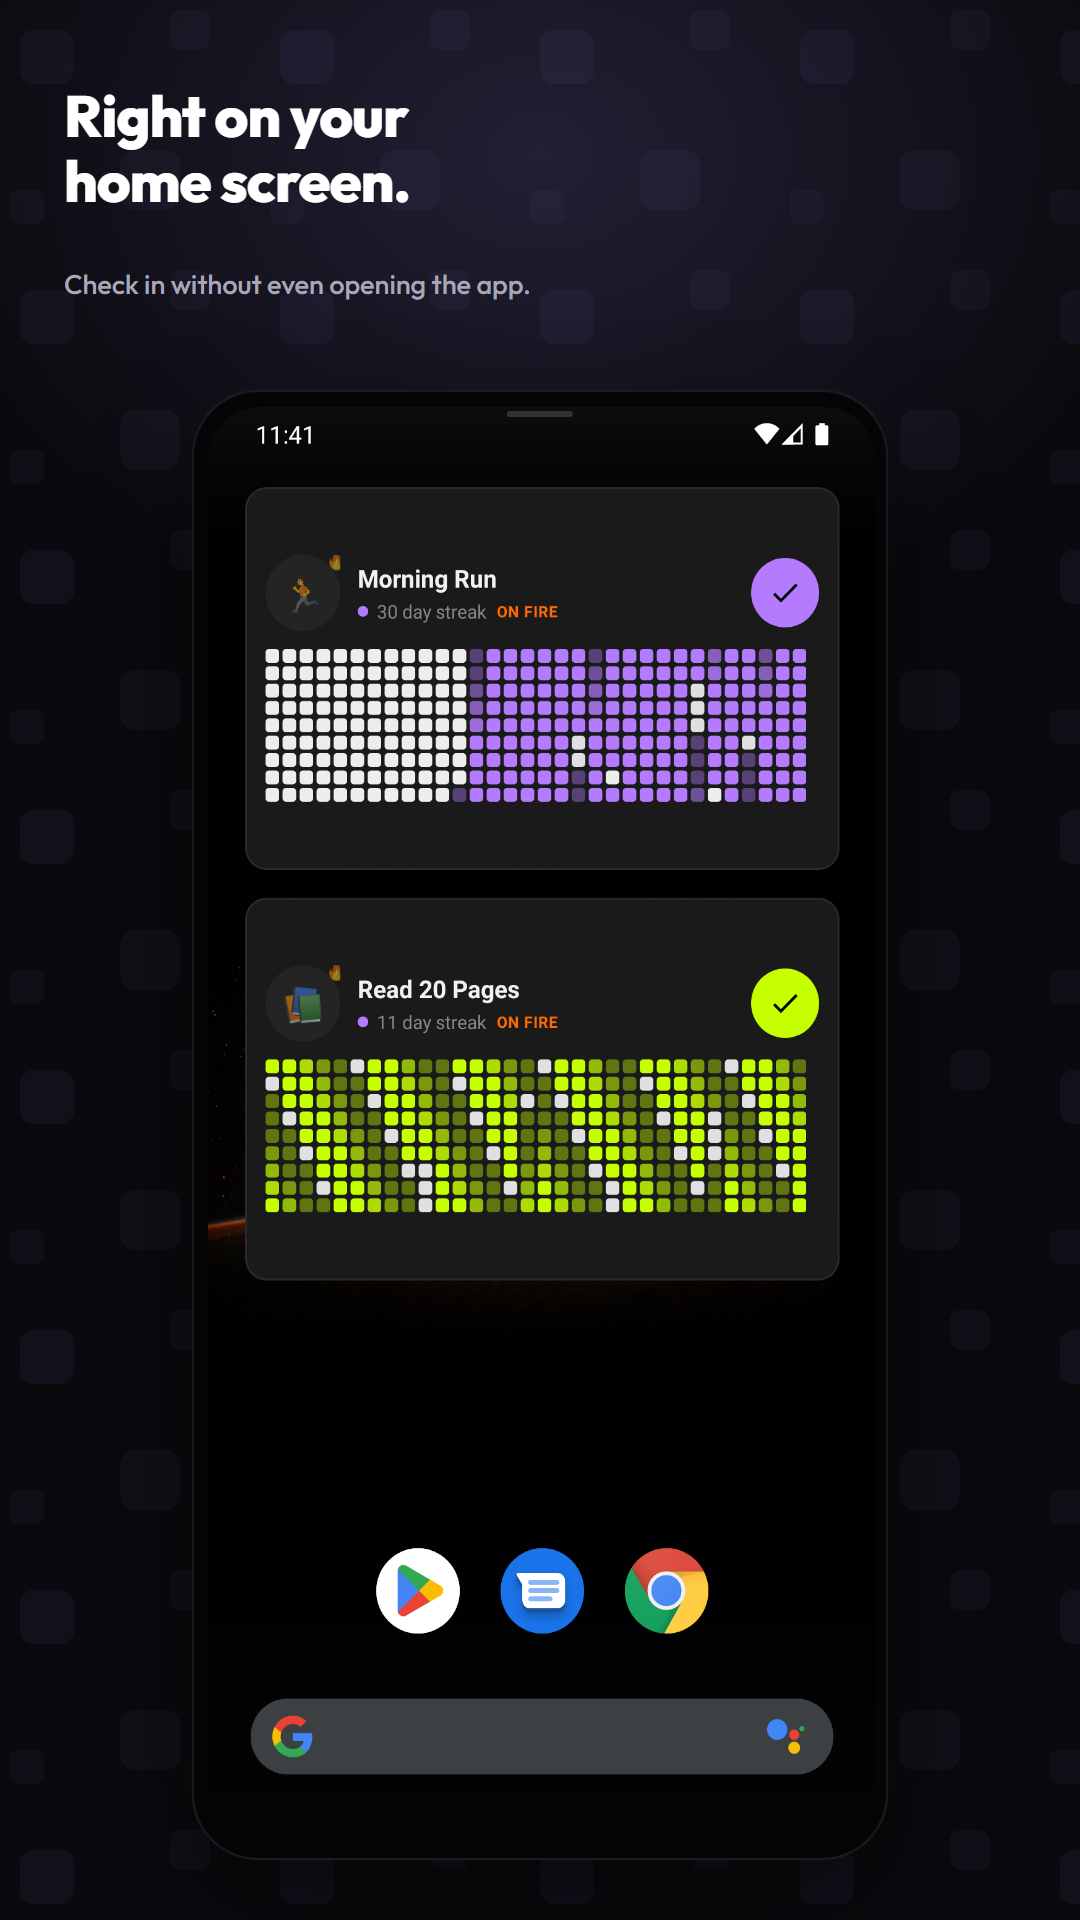
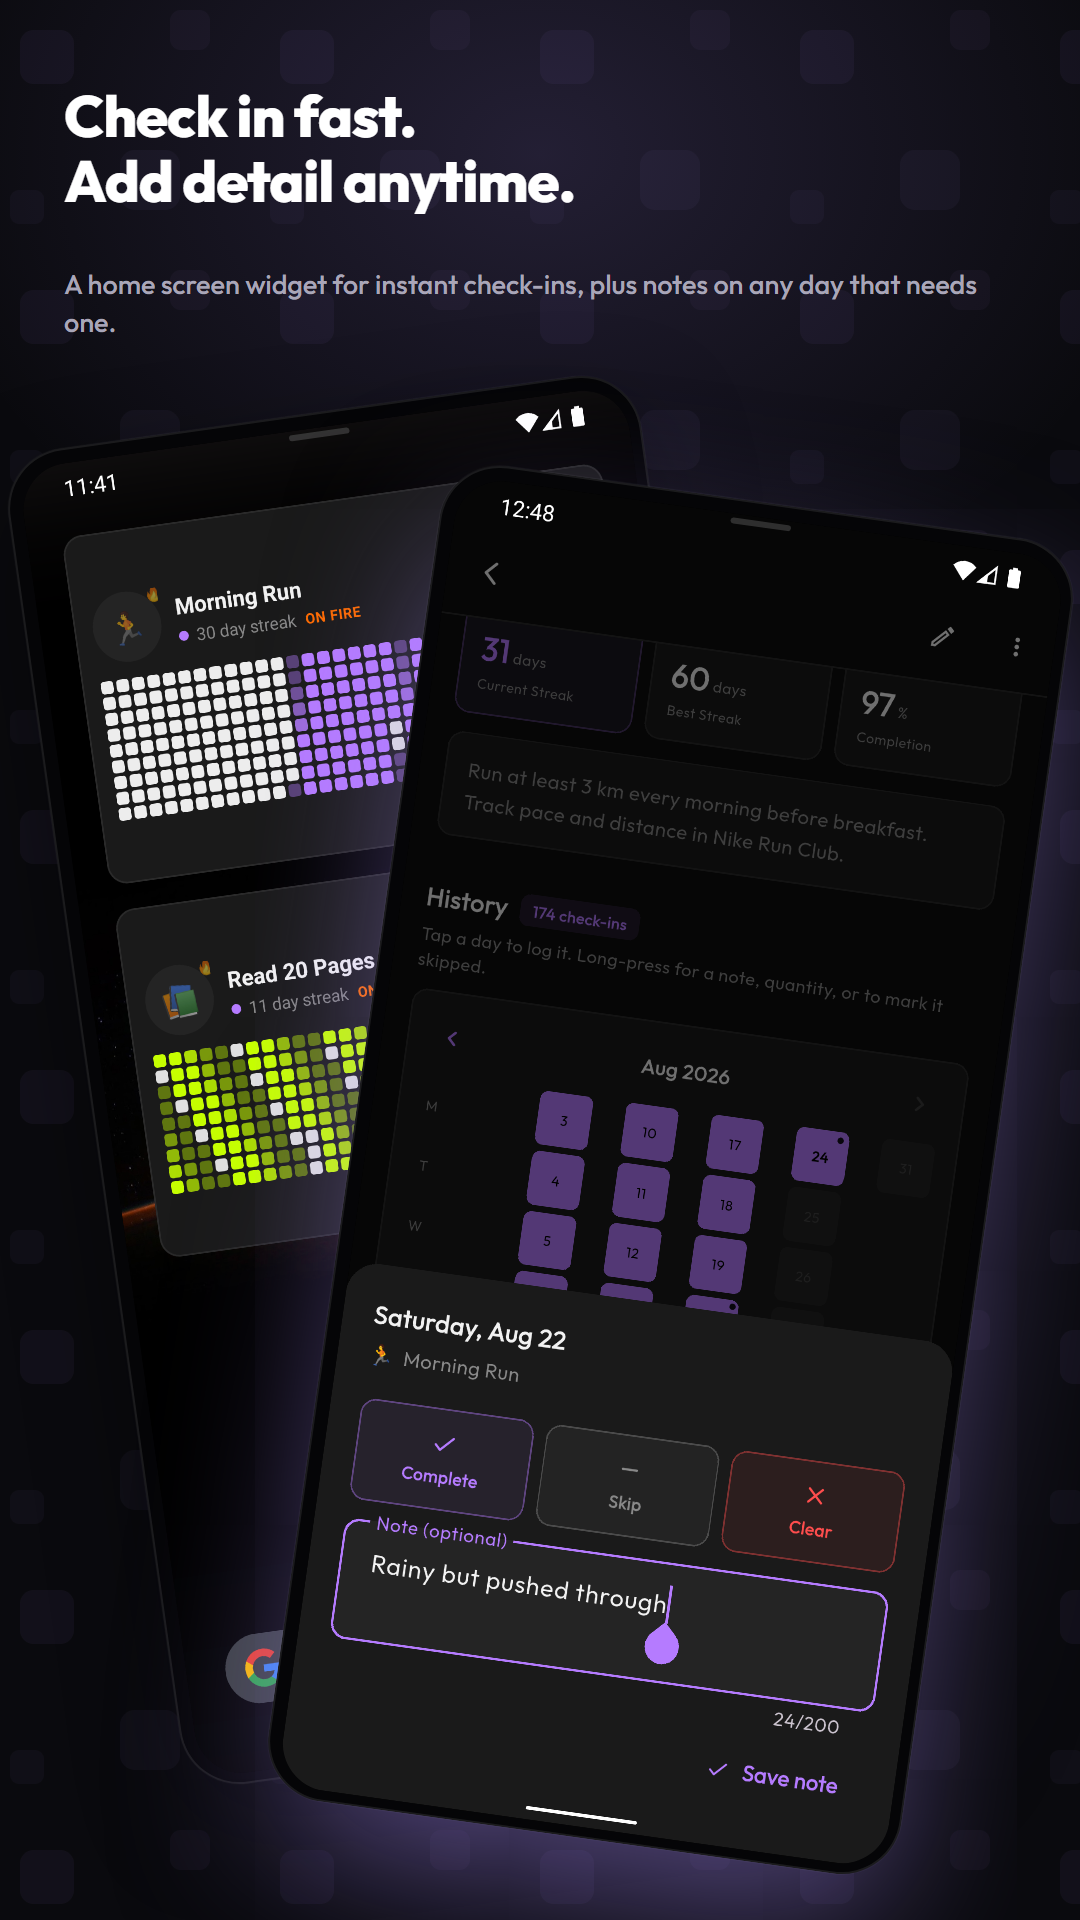
fix: day-action sheet losing notes, plus a discoverability hint and store asset updates
The day-action sheet only saved a note/quantity when the user tapped
Complete/Skip/Clear, so editing a note on an already-logged day and
dismissing the sheet any other way silently discarded it. Now editing
the note or quantity on an existing check-in saves against its current
status without requiring the same status to be re-tapped, and a small
"Save note" button gives an explicit way to do that.

Also adds a hint under the History header explaining the tap vs.
long-press gestures, since long-press (notes, quantity, skip) had no
in-app discovery path.

Combines the widget and save-note screenshots into one Play Store
listing slide, and reorders the feature graphic so the dark theme
phone sits on top.

diff --git a/lib/features/habits/presentation/habit_detail_screen.dart b/lib/features/habits/presentation/habit_detail_screen.dart
@@ -338,6 +338,15 @@ class HabitDetailScreen extends ConsumerWidget {
                         ),
                       ],
                     ).animate().fadeIn(delay: 240.ms),
+                    const SizedBox(height: 4),
+                    Text(
+                      'Tap a day to log it. Long-press for a note, quantity, or to mark it skipped.',
+                      style: TextStyle(
+                        color: textMuted,
+                        fontSize: 11.5,
+                        height: 1.35,
+                      ),
+                    ).animate().fadeIn(delay: 240.ms),
 
                     const SizedBox(height: 10),
 
@@ -662,6 +671,31 @@ Future<void> showDayActionSheet(
               style: TextStyle(color: textPrimary),
               decoration: const InputDecoration(labelText: 'Note (optional)'),
             ),
+            // Only when the day already has a status - editing the note on
+            // a fresh, never-logged day still needs Complete/Skip/Clear to
+            // give it one. Reuses the exact same save path as those
+            // buttons (set chosen, then pop) so there's one save codepath,
+            // not two.
+            if (existing != null) ...[
+              const SizedBox(height: 4),
+              Align(
+                alignment: Alignment.centerRight,
+                child: TextButton.icon(
+                  onPressed: () {
+                    chosen = existing.status;
+                    Navigator.of(sheetContext).pop();
+                  },
+                  icon: Icon(Icons.check_rounded, size: 16, color: accent),
+                  label: Text(
+                    'Save note',
+                    style: TextStyle(
+                      color: accent,
+                      fontWeight: FontWeight.w600,
+                    ),
+                  ),
+                ),
+              ),
+            ],
             const SizedBox(height: 4),
           ],
         ),
@@ -669,9 +703,22 @@ Future<void> showDayActionSheet(
     },
   );
 
-  if (chosen == null) return;
   final note = noteController.text.trim();
   final value = int.tryParse(valueController.text.trim());
+  final noteChanged = note != (existing?.note?.trim() ?? '');
+  final valueChanged = habit.isQuantityHabit && value != existing?.value;
+
+  if (chosen == null) {
+    // No Complete/Skip/Clear button tapped - the sheet was dismissed some
+    // other way (tap outside, swipe down, back gesture). If the day
+    // already has a status and the user only edited the note or the
+    // logged quantity, save that against its existing status instead of
+    // silently discarding it - re-tapping the same status just to keep a
+    // note isn't something a user should have to do.
+    if (existing == null || !(noteChanged || valueChanged)) return;
+    chosen = existing.status;
+  }
+
   await ref
       .read(habitRepositoryProvider)
       .setCheckIn(
